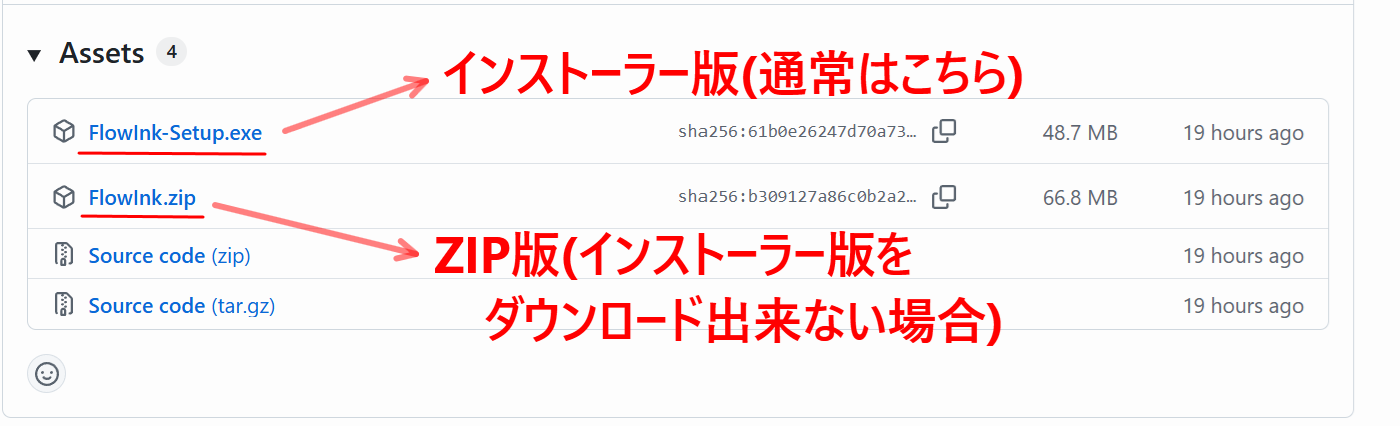
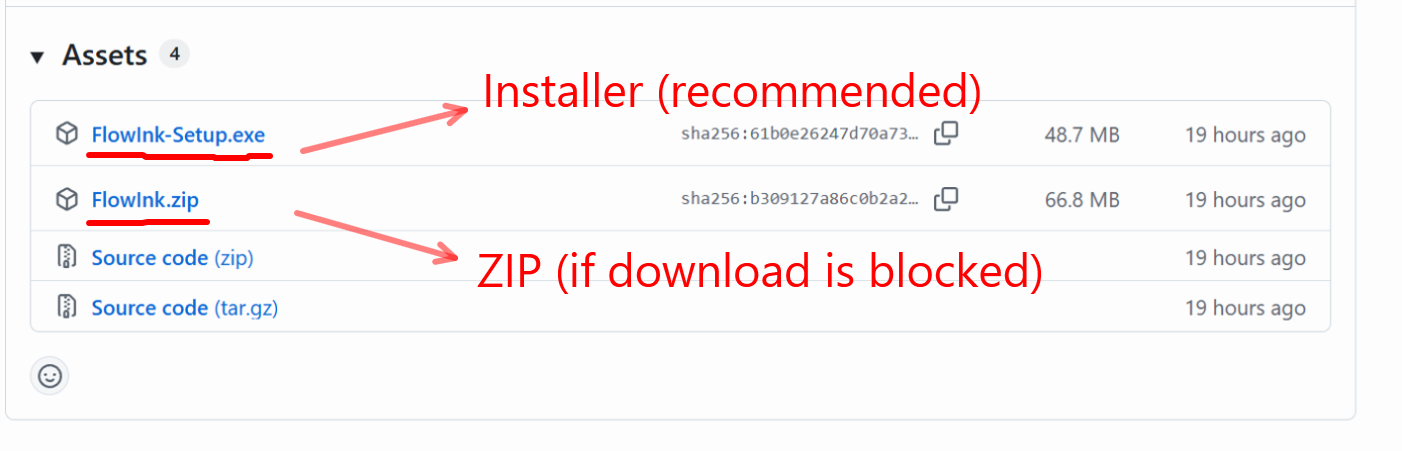
doc: add english images

diff --git a/docs/en/index.html b/docs/en/index.html
@@ -767,9 +767,9 @@
         </p>
       </div>
       <figure class="download-shot">
-        <a href="../images/AssetsBox_with_annotation.png" target="_blank" rel="noopener noreferrer">
+        <a href="images/AssetsBox_with_annotation.png" target="_blank" rel="noopener noreferrer">
           <img
-            src="../images/AssetsBox_with_annotation.png"
+            src="images/AssetsBox_with_annotation.png"
             alt="Where to download FlowInk from the Assets section"
           />
         </a>
